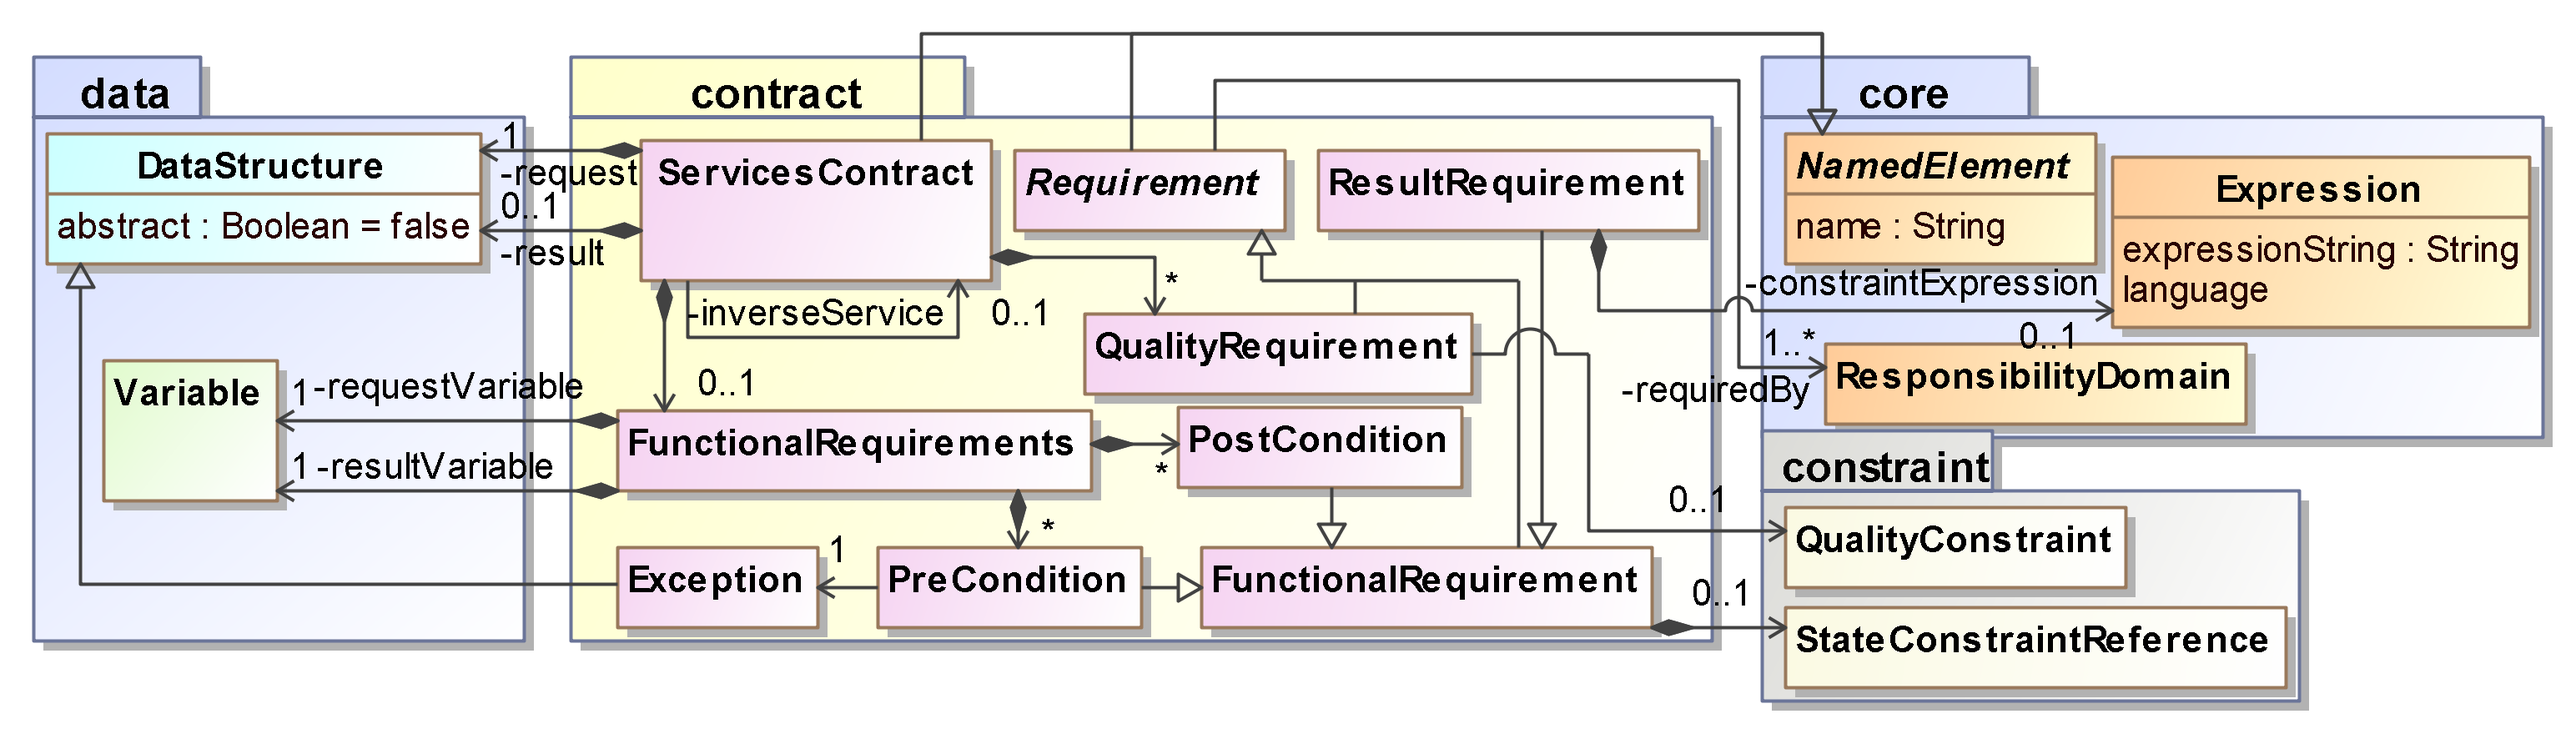
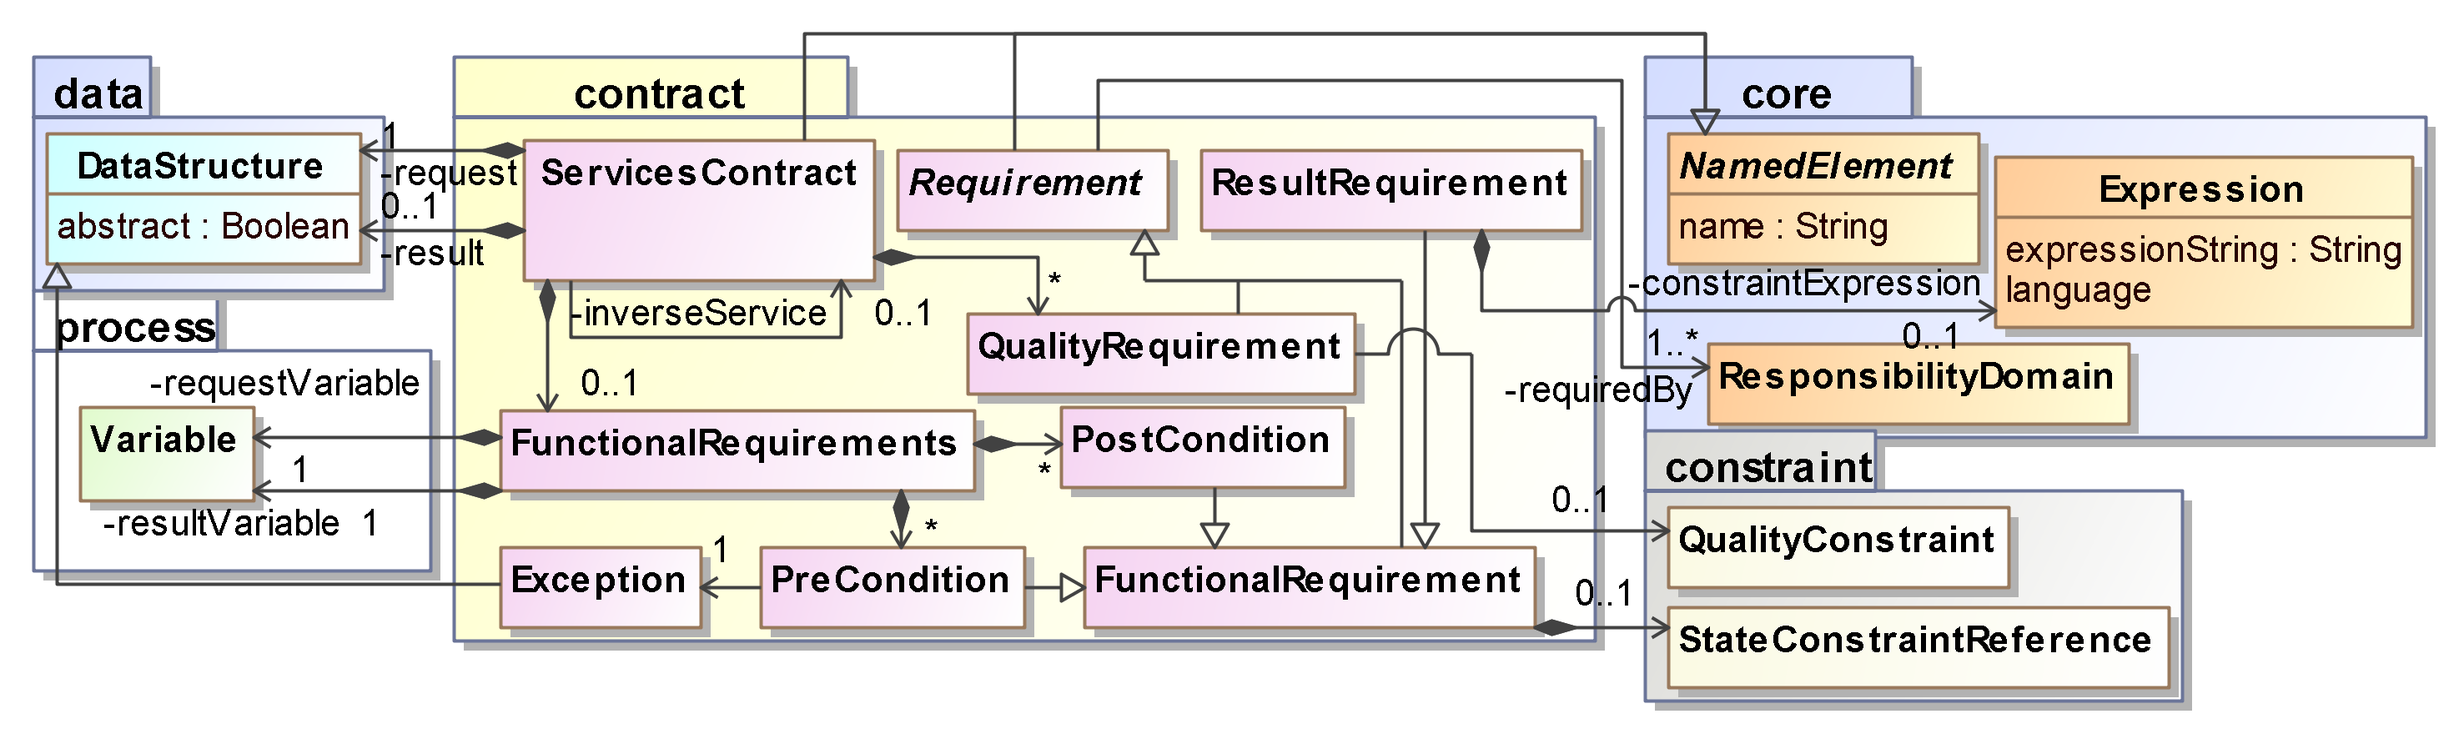
after final proof-reading and spell checking of metamodel section

diff --git a/publications/papers/dslForUrdad/urdadMetamodel.tex b/publications/papers/dslForUrdad/urdadMetamodel.tex
@@ -2,11 +2,11 @@
 
 URDAD's meta model provides a formal description of URDAD's domain of discourse. It will be used to support the URDAD methodology of requirements specification. A meta model is a ``logical information model that specifies the modeling elements used within another (or the same) modeling notation'' \cite{_ieee_2003}. 
 
-URDAD's meta model formalizes the modelling constructs needed for the specification of service requirements and the technology-neutral design of business processes which fulfil such requirements. It is specifiedin \emph{Ecore} which is an implementation of \emph{EMOF}. The \emph{Eclipse} modelling tool suite\cite{gronback_model_2008} supports the automatic generation of concrete textual and diagrammatic grammers, \emph{QVT}-based model transformations, as well as the integrated use of the Object Constraint Language (OCL) \cite{_object_2010}. An automatic translation of the meta model into a representation within the Web Ontology Language (OWL DL) ontology was done to facilitate automated satisfiability checking (see Section \ref{sec:assessment}).
+URDAD's meta model formalizes the modelling constructs needed for the specification of service requirements and the technology-neutral design of business processes which fulfil such requirements. It is specified in \emph{Ecore} which is an implementation of \emph{EMOF}. The \emph{Eclipse} modelling tool suite\cite{gronback_model_2008} supports the automatic generation of concrete textual and diagrammatic grammars, \emph{QVT}-based model transformations, as well as the integrated use of the Object Constraint Language (OCL) \cite{_object_2010}. An automatic translation of the meta model into a representation within the Web Ontology Language (OWL DL) ontology was done to facilitate automated satisfiability checking (see Section \ref{sec:assessment}).
 
-Our meta model was designed to contain the smallest sufficient set of concepts that describe URDAD's service-oriented analysis and design specifications.  The conception of our meta model was influenced by the UML and the Business Process Execution Language (BPEL) in the area of data structure and process specification. One of its underlying assumptions is the internal `statelessness' of services; `state' is assumed to be stored in the services' environments. The metamodel describes the notions of a responsibility domain, intra-model relationships facilitating traceability, service contracts including pre-conditions and their associated exceptions, post-conditions, service-specific request and result classes, and the separation of the identification of a resource (object or service) from the path to it. Our DSL also describes a system of parametrised, reusable operational constraints, which are applied to information obtained from the environment sourced through services
+Our meta model was designed to contain the smallest sufficient set of concepts that describe URDAD's service-oriented analysis and design specifications.  It was influenced by the UML and the Business Process Execution Language (BPEL) in the area of data structure and process specification. One of its underlying assumptions is the internal `statelessness' of services; `state' is assumed to be stored in the services' environments. The metamodel describes the notions of a responsibility domain, intra-model relationships facilitating traceability, service contracts including pre-conditions and their associated exceptions, post-conditions, as well as service-specific request and result classes. Our DSL also describes a system of parametrised, reusable operational constraints, which are applied to information obtained from the environment sourced through services.
 
-Using tools like EMFText \cite{heidenreich_derivation_2009} one can either generate or specify a textual grammar for a metamodel, and from this grammar both a parser and a language-aware editor (supporting syntax checking and auto-completion) can be generated. In this section we illustrate core aspects of the URDAD DSL through an example encoded in the grammar which we have defined for the language. The textual grammar is meant to be simple and intuitive, enabling requirements specialists to manipulate URDAD DSL - although a graphical editor would ultimately be more suitable.
+Using tools like EMFText \cite{heidenreich_derivation_2009} one can either generate or specify a textual grammar for a metamodel, and from this grammar both a parser and a language-aware editor supporting syntax checking and auto-completion. In this section we illustrate core aspects of the URDAD DSL through an example encoded in the grammar which we have defined for the language. The textual grammar is meant to enable requirements specialists to specify URDAD DSL models within a simple and intuitive textual syntax. Ultimate,y we expect a graphical syntax to be still more accessible for requirements specialists than the textual syntax.
 
 %--------------------------
 \subsection{The Core of URDAD's Meta Model}
@@ -24,10 +24,9 @@ A responsibility domain covers a coherent unit of functionality at a particular 
 %-----------------------
 \subsection{Constraints}
 
-Constraints are required for the specification of functional requirements (pre- and post-conditions), data structure constraints and decision points in processes. 
-The Object-Constraint Language (OCL) has become de-facto standard for specifying constraints across object graphs. However, in a services-oriented approach and in the context of reusable, parametrised constraints the OCL alone is not expressive enough. 
+Constraints are required for the specification of functional requirements (pre- and post-conditions), data structure constraints and decision points in processes. The Object-Constraint Language (OCL) has become the de-facto standard for specifying constraints across object graphs. However, in a services-oriented approach and in the context of reusable, parametrised constraints the OCL alone is not expressive enough. 
 
-Firstly, in a service-oriented context the actual environmental state is not directly specified, but accessible only via services and not by traversing an object graph. The specification of constraints must thus relate to the specification of services through which information is sourced from the environment together with a set of data structure constraints on the obtained information. OCL can be used for the latter, but is insufficient for the complete specifcation of a constraint.
+Firstly, in a service-oriented context the actual environmental state is only accessible by using services which query the environment and not by traversing an object graph. The specification of constraints must thus relate to the specification of services through which information is sourced from the environment together with a set of data structure constraints on the obtained information. OCL can be used for the latter, but is insufficient for the complete specification of a constraint.
 
 Secondly, the definition of reusable constraints requires support for binding parameters. \emph{For example}, assume a constraint that some `Person' must be `registered'. Such a constraint can contribute to pre- or post-conditions of services. Hence, to be able to do so, the person identifier would have to be passed as a parameter to the constraint entity. 
 
@@ -46,7 +45,7 @@ StateConstraint studentEnrolledForPresentation receiving Variable enrollForPrese
 }
 \end{lstlisting}
 
-As it is depicted in Figure \ref{fig:constraintModule}, the constraints module provides the concept of re-usable constraints with standard logical operators to formulate complex constraint expressions.
+As depicted in Figure \ref{fig:constraintModule}, the constraints module provides the concept of re-usable constraints with standard logical operators to formulate complex constraint expressions.
 \begin{figure}[Htbp]
   \centering
   \includegraphics{constraint}
@@ -108,7 +107,7 @@ Figure \ref{fig:contractModule} shows the URDAD DSL support for the specificatio
 %--------------------------
 \subsection{Data Structures}
 
-The data module of the URDAD meta model is depicted in Figure \ref{fig:metamodel-4}. It allows for an object-oriented approach to data structure specification which is directly aligned with UML class descriptions. In addition to the familiar type relationships - Association, Aggregation and Composition, URDAD DSL introduces a new, weaker type relationship called \emph{Identification}. This is conceptually similar to a strongly-typed \emph{Uniform Resource Identifier} (URI), in that it uniquely identifies objects within the model, but without implying an active message path to the object as UML \emph{Association} does.
+The data module of the URDAD meta model is depicted in Figure \ref{fig:dataStructureModule}. It allows for an object-oriented approach to data structure specification which is directly aligned with UML class descriptions. In addition to the familiar type relationships - Association, Aggregation and Composition, URDAD DSL introduces a new, weaker type relationship called \emph{Identification}. This is conceptually similar to a strongly-typed \emph{Uniform Resource Identifier} (URI), in that it uniquely identifies objects within the model, but without implying an active message path to the object as UML \emph{Association}s do.
  
 \begin{figure}[Htbp]
   \centering
@@ -124,7 +123,7 @@ The process package of the URDAD meta model describes the concept of a service a
 
 The second aspect of a service is the specification of a process which is assembled from service requests associated with the lower level services contracts used to address the functional requirements of the service. Note that decoupling of levels of granularity via services contracts is enforced. The URDAD metamodel assumes that the selection of concrete service providers for the lower level services is either done by the deployment environment through mechanisms like \emph{dependency injection} or specified during the implementation mapping phase.
 
-The URDAD metamodel also contains explicit creating and manipulating local process variables, modeling constructs for handling an exception raised by a lower level service and the raising of an exception associated with a pre-condition of the service and the return of a computational result. The following listing illustrates how a service contract is denoted in the grammar of our URDAD DSL.
+The URDAD metamodel also contains explicit modelling constructs for creating and manipulating local process variables,  for handling an exception raised by a lower level service, for raising an exception associated with a pre-condition of the service, and for the return of a computational result. The following listing illustrates how a service contract is denoted in the grammar of our URDAD DSL.
 
 \lstset{language=urdad,caption=Specifying a service in the textual URDAD DSL syntax.,label=serviceTextSyntax}
 \begin{lstlisting}[numbers=left,escapechar=|]

diff --git a/publications/papers/dslForUrdad/relatedWork.tex b/publications/papers/dslForUrdad/relatedWork.tex
@@ -7,5 +7,3 @@ The URDAD DSL allows for the specification of textual and graphical grammars thr
 \cite{asnina_computation_2010} stress the need of modelling in the problem domain as well the benefits of accumulating requirements within a single model. Services are grouped into feature sets which are related to responsibility domains. Functional requirements are decomposed across levels of granularity and higher level processes are orchestrated across lower level services. They define the notion of functionals with cause and effect which can be related to the concept of a services contract. In addition they provide a {\em topological functional model} (TFM) for mapping technology neutral service requirements onto available concrete services pool. The TFM is independent of the modelling technique and can be applied to an URDAD model. 
 
 In the {\em Requirements Driven Design Automation} methodology (RDDA) \cite{cardei_model_2008} one encodes requirements specifications in SYSML diagrams. The SYSML model is enriched with semantic descriptions after which the model is transformed to the {\em One Pass to Production} (OPP) design language, the ODL. ODL is an OWL based ontology from which the requirements are validated for consistency and completeness. The approach is, however, structure focused with little emphasis on services contracts and recursive orchestration of higher level services from lower level services.
-
-\todo{Dawid Loubser: Please write OWL-S paragraph}
